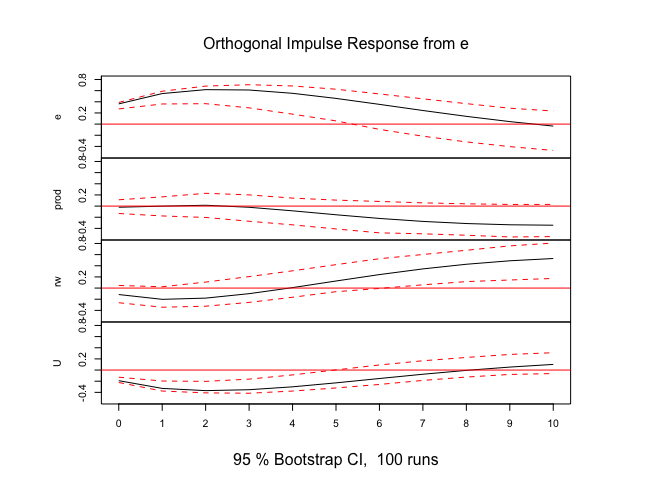
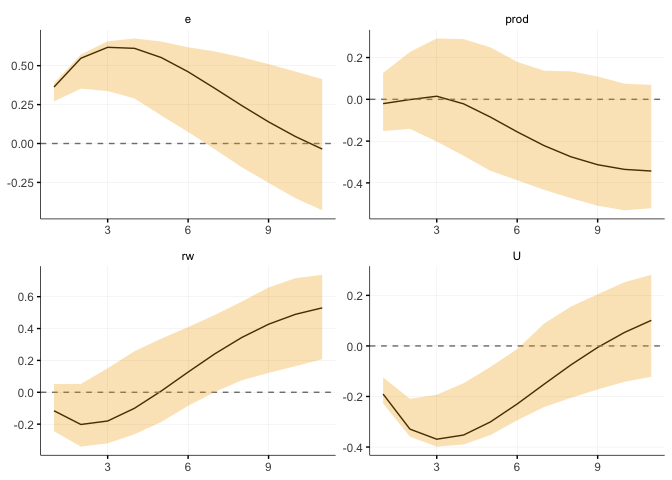
Change readme file

diff --git a/README.md b/README.md
@@ -13,7 +13,7 @@ You can install the development version of `ggirf` from
 
 ``` r
 # install.packages("devtools")
-devtools::install_github("muhsinciftci/muhsinciftci.github.io")
+devtools::install_github("muhsinciftci/ggirf")
 ```
 
 ## Contribution
@@ -57,19 +57,13 @@ var_estimation <- VAR(Canada, p = 2, type = "const")
 var_irf        <- irf(var_estimation, impulse = 'e')
 ```
 
-Default plot in vars:
+and the impulse response graph via `ggirf` would be:
 
 ``` r
-plot(var_irf)
+gg_vars(irf_result = var_irf, var_shock = 'e', line_color = 'black', shade_color = gg_colors[7]) +
+  gg_theme_irf()
 ```
 
-<img src="man/figures/README-unnamed-chunk-4-1.png" width="100%" />
-
-and the impulse response via `ggirf` would be:
-
-``` r
-gg_vars(irf_result = var_irf, var_shock = 'e',
-        line_color = 'black', shade_color = gg_colors[7]) + gg_theme_irf()
-```
-
-<img src="man/figures/README-unnamed-chunk-5-1.png" width="100%" />
+<img src="man/figures/README-unnamed-chunk-4-1.png" width="100%" /> or
+you can simply provide one variable as well. **Providing multiple shocks
+once is not allowed.**
